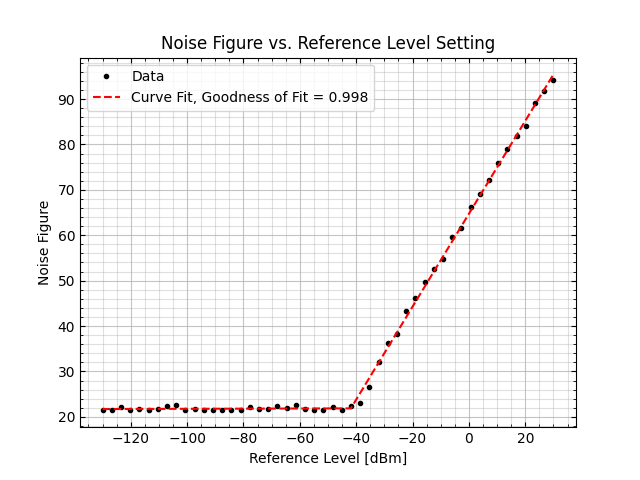
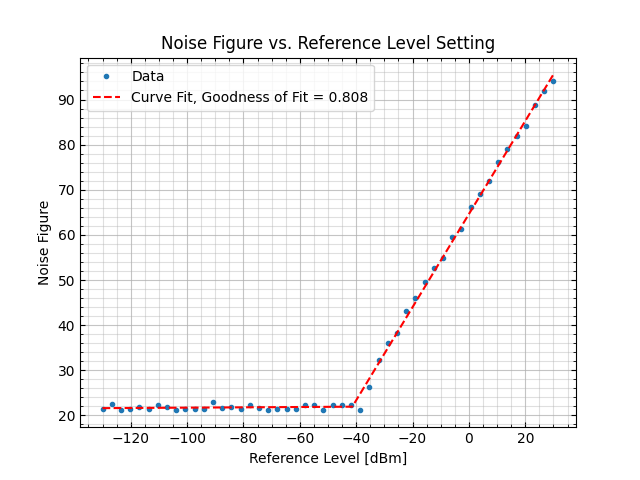
Updated QQ Plot colors

diff --git a/testbed.py b/testbed.py
@@ -465,7 +465,7 @@ def noiseFig_compPlot(nf_dBm, refLevels):
     # Plot noise figure vs. ref level with fit
     fig = plt.figure()
     ax = fig.add_subplot(111)
-    ax.plot(refLevels, nf_dBm, 'k.', label="Data")
+    ax.plot(refLevels, nf_dBm, 'C0.', label="Data")
     ax.plot(refLevFine, pw_model(refLevFine, *p), 'r--',
         label="Curve Fit, Goodness of Fit = {:.3f}".format(Q))
     ax.set_xlabel("Reference Level [dBm]")
@@ -645,4 +645,4 @@ def findNearest(arr, val):
 #sr_test_fft(cf=4000e6)
 #gain_char(-130, 30, 50)
 #gain_char(-70, -50, 3, fftPlot=True, noiseFig=False, trunc1=True)
-gain_char(-130, 30, 2, trunc=True, normTest=True)
+gain_char(-130, 30, 50, noiseFig=True)
